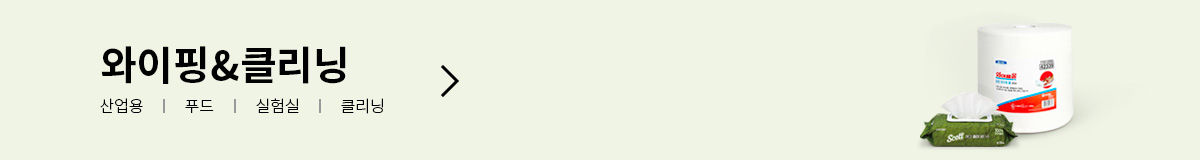
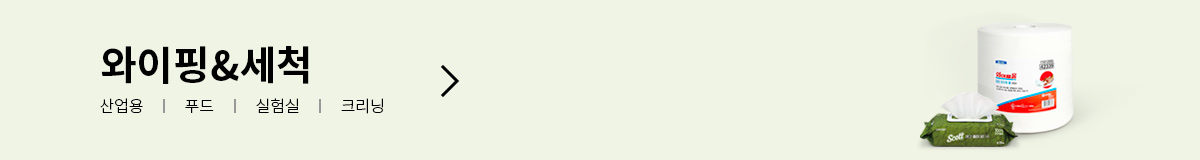
텍스트 수정

Changed region(s): [[0.185, 0.2812, 0.3083, 0.5312], [0.2775, 0.625, 0.3083, 0.7188]]

diff --git a/kcp/fo/custom/sitemap.html b/kcp/fo/custom/sitemap.html
@@ -267,7 +267,7 @@
 				<li><a href="/Contents/View?categoryId=310&contentsId=62">산업체생산공정</a></li>
 				<li><a href="/Contents/View?categoryId=320&contentsId=63">푸드서비스&amp;프로세싱</a></li>
 				<li><a href="/Contents/View?categoryId=330&contentsId=64">병의원 및 요양시설</a></li>
-				<li><a href="/Contents/View?categoryId=340&contentsId=65">크린룸&amp;실험실</a></li>
+				<li><a href="/Contents/View?categoryId=340&contentsId=65">클린룸&amp;실험실</a></li>
 				<li><a href="/Contents/View?categoryId=350&contentsId=66">방역현장</a></li>
 			</ul>
 		</div>

diff --git a/kcp/mo/custom/sitemap.html b/kcp/mo/custom/sitemap.html
@@ -125,7 +125,7 @@
 				<li><a href="/Contents/View?categoryId=310&contentsId=62">산업체생산공정</a></li>
 				<li><a href="/Contents/View?categoryId=320&contentsId=63">푸드서비스&amp;프로세싱</a></li>
 				<li><a href="/Contents/View?categoryId=330&contentsId=64">병의원 및 요양시설</a></li>
-				<li><a href="/Contents/View?categoryId=340&contentsId=65">크린룸&amp;실험실</a></li>
+				<li><a href="/Contents/View?categoryId=340&contentsId=65">클린룸&amp;실험실</a></li>
 				<li><a href="/Contents/View?categoryId=350&contentsId=66">방역현장</a></li>
 			</ul>
 		</div>

diff --git a/kcp/fo/introduction/lineup.html b/kcp/fo/introduction/lineup.html
@@ -554,7 +554,7 @@
 						<h3>제품 라인업</h3>
 						<ul class="breadcr">
 							<li>화장실 &amp; 위생</li>
-							<li>와이핑&amp;클리닝</li>
+							<li>와이핑&amp;세척</li>
 						</ul>
 					</div>
 					<div class="poptable">

diff --git a/kcp/mo/introduction/lineup.html b/kcp/mo/introduction/lineup.html
@@ -489,7 +489,7 @@
 						<h3>제품 라인업</h3>
 						<ul class="breadcr">
 							<li>화장실 &amp; 위생</li>
-							<li>와이핑&amp;클리닝</li>
+							<li>와이핑&amp;세척</li>
 						</ul>
 					</div>
 					<div class="poptable">
